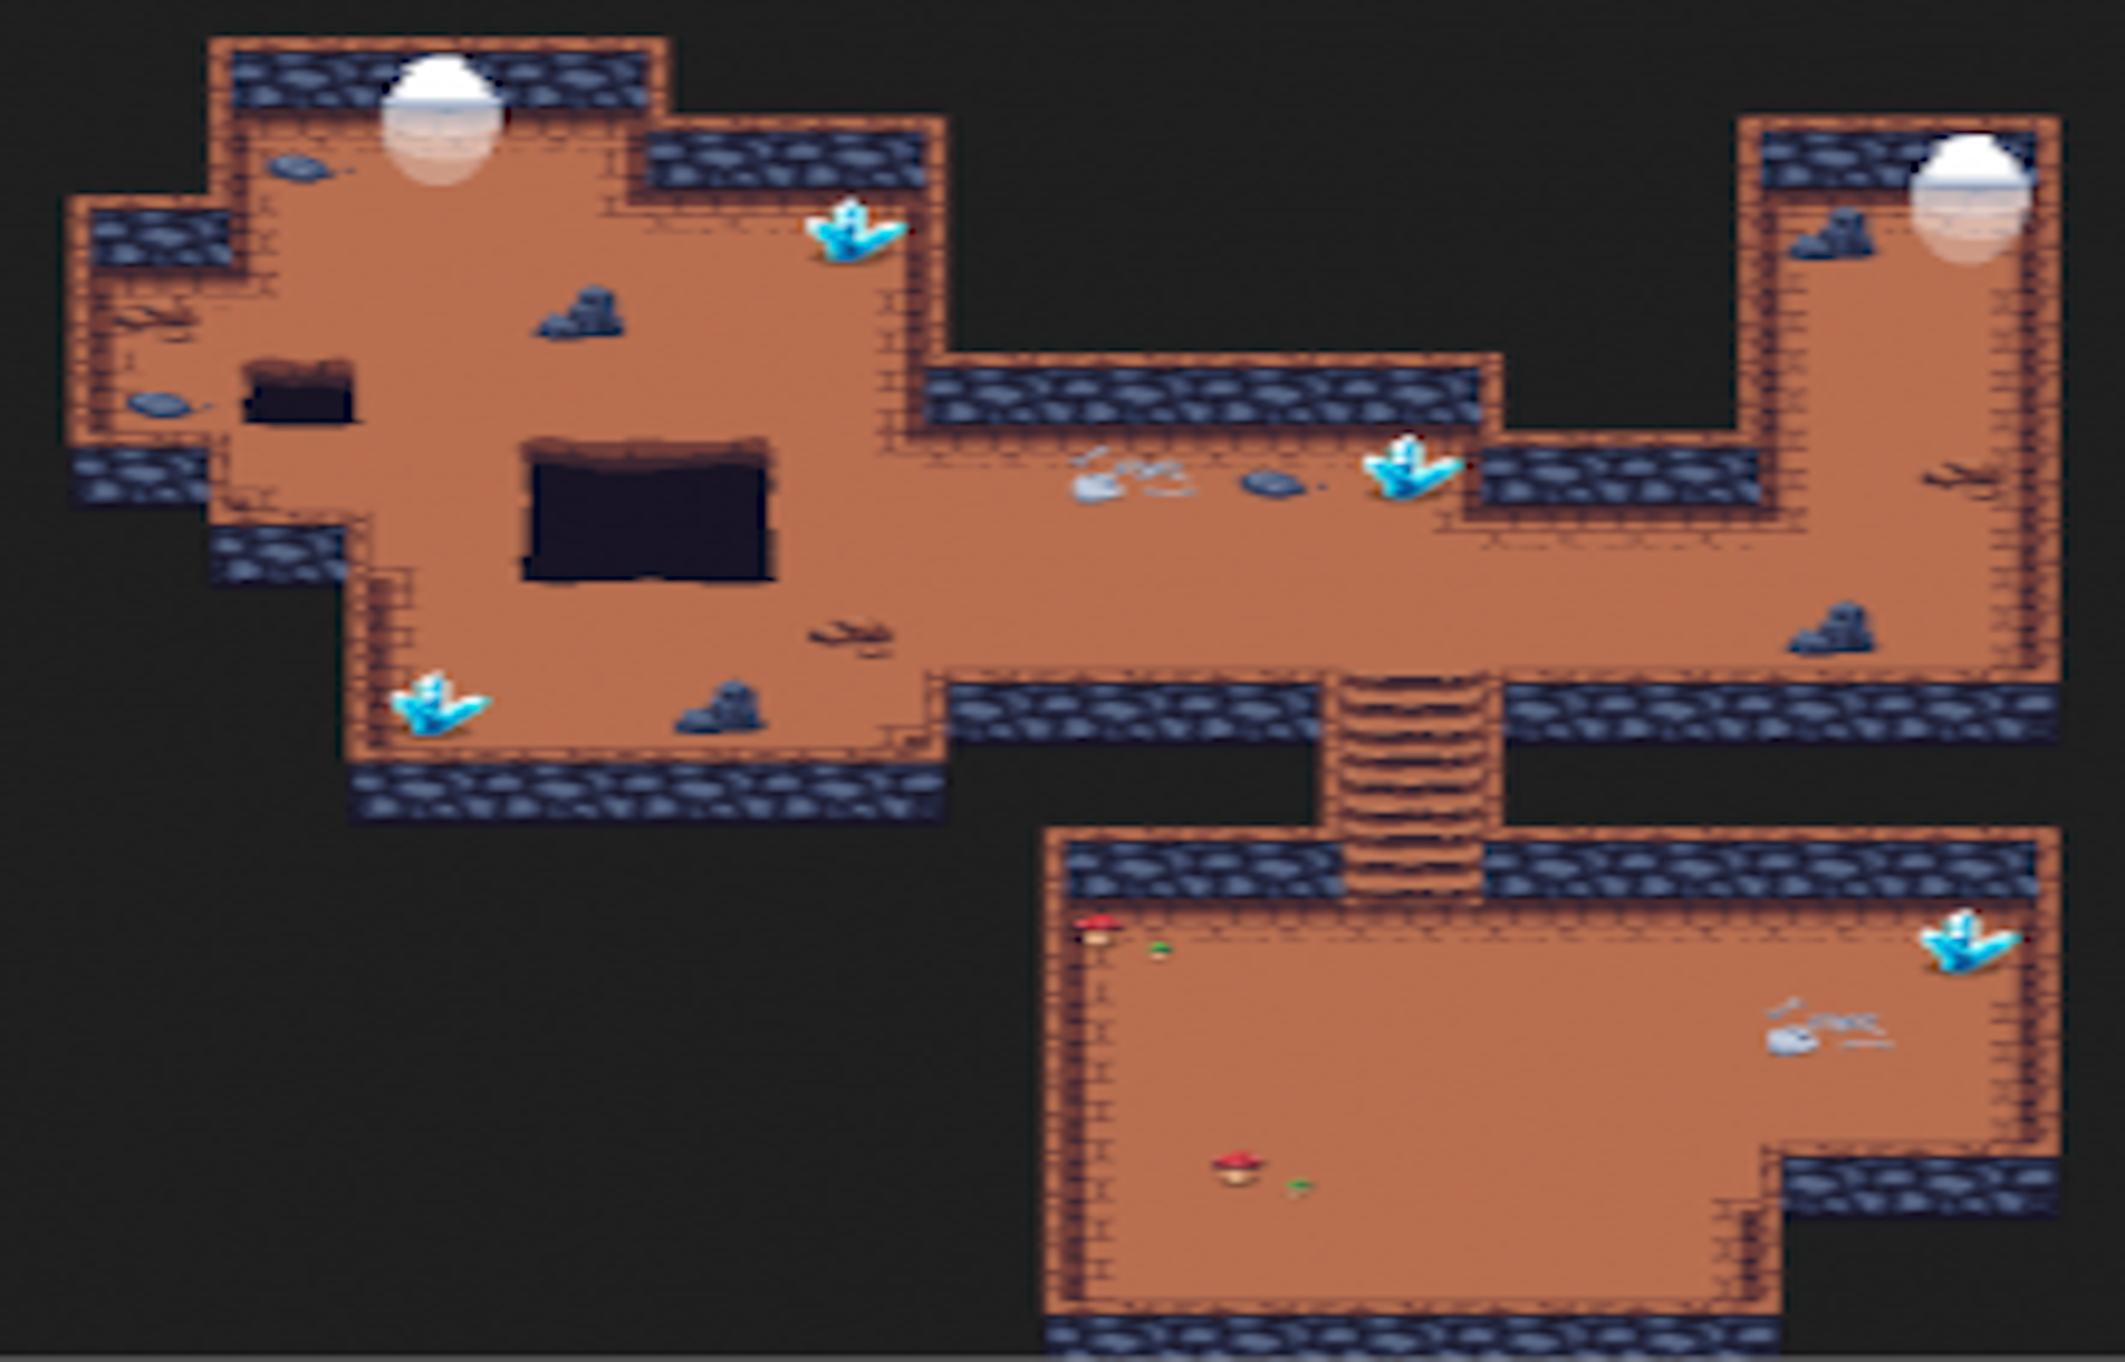
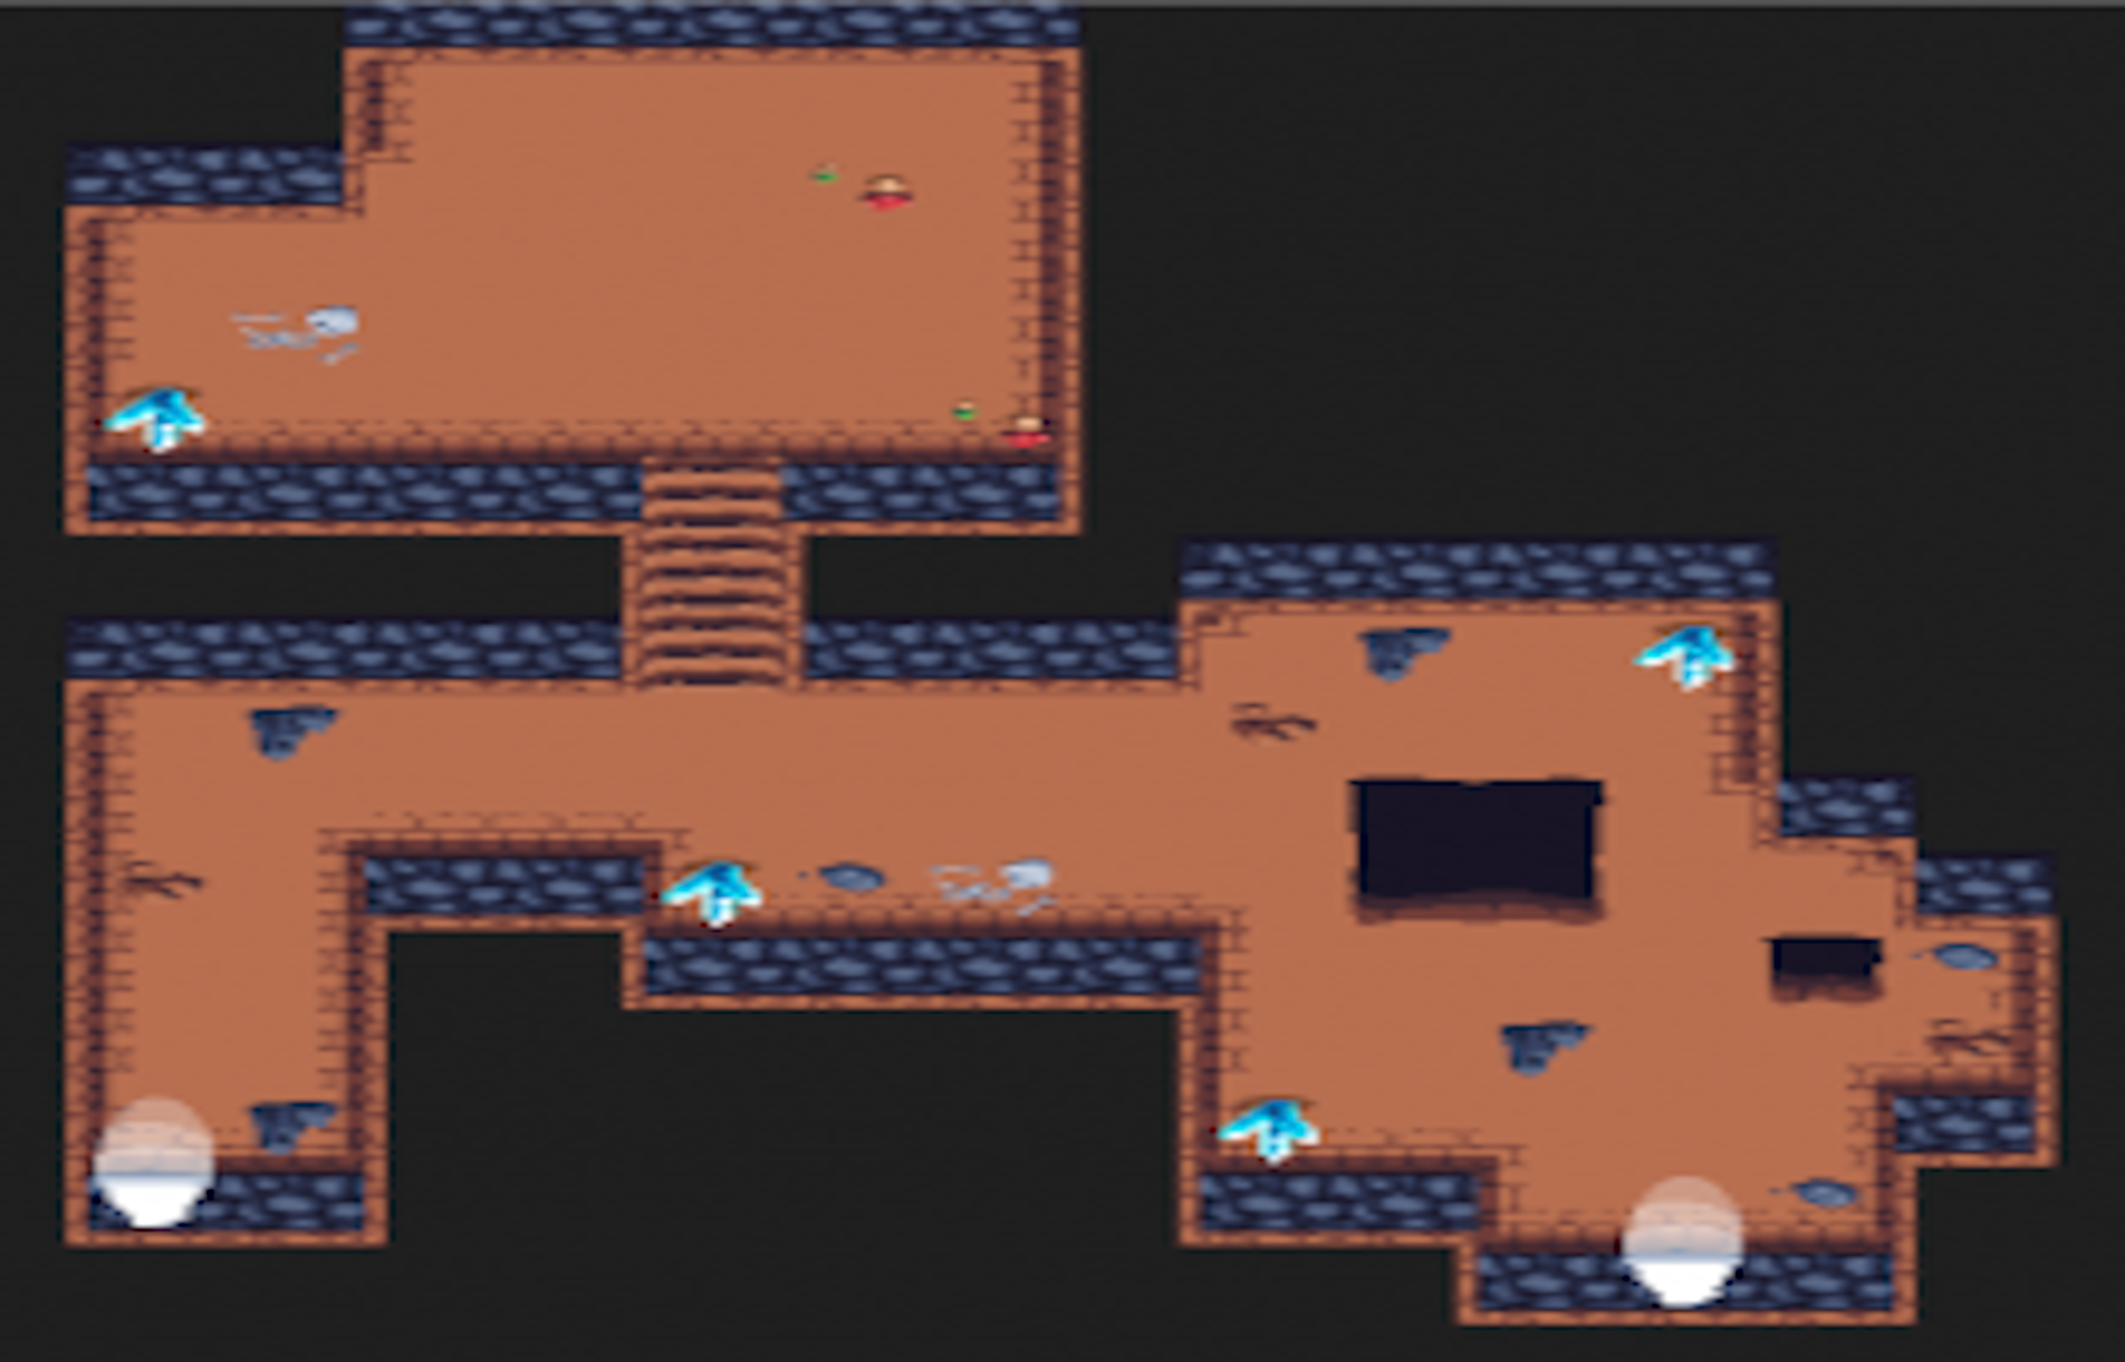
warp transi

diff --git a/mapgrid.py b/mapgrid.py
@@ -1,5 +1,5 @@
 
-T =[
+Village_grid =[
 [1, 1, 1, 1, 1, 1, 1, 1, 1, 1, 1, 1, 1, 1, 1, 1, 1, 1, 1, 1, 1, 1, 1, 1, 1, 1, 1, 1, 1, 1, 1, 1, 1, 1, 1, 1, 1, 1, 1, 1, 1, 1, 1, 1, 1, 1, 1, 1, 1, 1, 1, 1, 1, 1, 1, 1, 1, 1, 1, 1, 1, 1, 1, 1, 1, 1, 1, 1, 1, 1, 1, 1, 1, 1, 1, 1, 1, 1, 1],
 [1, 1, 1, 1, 1, 1, 1, 1, 1, 1, 0, 0, 0, 1, 1, 1, 1, 1, 1, 1, 1, 1, 1, 1, 0, 0, 0, 1, 1, 1, 1, 1, 1, 1, 1, 1, 1, 1, 1, 1, 1, 1, 1, 1, 1, 1, 1, 1, 1, 1, 1, 1, 1, 1, 1, 1, 1, 1, 0, 0, 0, 0, 0, 0, 0, 0, 1, 1, 1, 1, 1, 1, 1, 1, 1, 1, 1, 1, 1],
 [1, 1, 1, 1, 1, 1, 1, 1, 1, 0, 0, 0, 0, 0, 0, 0, 0, 0, 0, 0, 0, 0, 0, 0, 0, 0, 0, 0, 1, 1, 1, 1, 1, 1, 1, 1, 1, 1, 1, 1, 1, 1, 1, 1, 1, 1, 1, 1, 1, 1, 1, 1, 1, 1, 1, 1, 1, 1, 0, 0, 0, 0, 0, 0, 0, 0, 0, 0, 1, 1, 0, 0, 0, 0, 0, 1, 1, 1, 1],
@@ -18,7 +18,7 @@ T =[
 [1, 1, 1, 1, 1, 0, 0, 0, 0, 0, 1, 0, 1, 1, 1, 1, 1, 1, 1, 1, 0, 1, 0, 0, 0, 0, 0, 0, 0, 0, 0, 0, 0, 0, 0, 0, 0, 0, 0, 0, 0, 0, 0, 0, 0, 0, 0, 0, 0, 0, 0, 0, 0, 0, 0, 0, 0, 0, 0, 0, 0, 0, 0, 0, 0, 0, 0, 0, 0, 0, 0, 0, 0, 0, 0, 0, 0, 1, 1],
 [1, 1, 1, 1, 0, 0, 0, 0, 0, 0, 0, 0, 1, 1, 1, 1, 1, 1, 1, 1, 0, 1, 0, 0, 0, 0, 0, 0, 0, 0, 0, 0, 0, 0, 0, 0, 0, 0, 0, 0, 0, 0, 0, 0, 0, 0, 0, 0, 0, 0, 0, 0, 0, 0, 0, 0, 0, 0, 0, 1, 1, 1, 1, 1, 1, 1, 1, 1, 1, 1, 0, 0, 0, 1, 1, 1, 1, 1, 1],
 [1, 1, 1, 1, 0, 0, 0, 0, 0, 0, 0, 0, 1, 1, 1, 1, 1, 1, 1, 0, 0, 0, 0, 0, 0, 0, 0, 0, 0, 0, 0, 0, 0, 0, 0, 1, 1, 1, 1, 0, 0, 1, 1, 1, 1, 1, 0, 0, 0, 0, 0, 0, 0, 0, 0, 0, 0, 0, 0, 1, 0, 0, 0, 0, 0, 0, 0, 0, 0, 0, 0, 0, 0, 0, 0, 0, 0, 1, 1],
-[1, 1, 1, 1, 0, 0, 0, 0, 0, 0, 1, 0, 1, 1, 1, 1, 0, 0, 1, 1, 0, 0, 0, 0, 0, 0, 1, 1, 0, 0, 0, 0, 0, 0, 0, 1, 0, 0, 0, 0, 0, 0, 0, 0, 0, 1, 0, 0, 0, 0, 1, 1, 0, 0, 1, 0, 0, 0, 0, 1, 0, 0, 0, 0, 0, 0, 0, 0, 0, 0, 0, 0, 0, 1, 1, 1, 1, 1, 1],
+[1, 1, 1, 1, 0, 0, 0, 0, 0, 0, 1, 0, 1, 1, 1, 0, 2, 1, 1, 1, 0, 0, 0, 0, 0, 0, 1, 1, 0, 0, 0, 0, 0, 0, 0, 1, 0, 0, 0, 0, 0, 0, 0, 0, 0, 1, 0, 0, 0, 0, 1, 1, 0, 0, 1, 0, 0, 0, 0, 1, 0, 0, 0, 0, 0, 0, 0, 0, 0, 0, 0, 0, 0, 1, 1, 1, 1, 1, 1],
 [1, 1, 1, 1, 1, 0, 0, 0, 0, 0, 1, 0, 0, 0, 0, 0, 0, 0, 0, 0, 0, 1, 0, 0, 0, 0, 0, 0, 0, 0, 0, 0, 0, 0, 0, 1, 0, 0, 0, 0, 0, 0, 0, 0, 0, 1, 0, 0, 0, 0, 0, 0, 0, 0, 0, 0, 0, 0, 0, 1, 0, 0, 1, 1, 1, 1, 1, 1, 1, 0, 0, 0, 0, 0, 0, 0, 1, 1, 1],
 [1, 1, 1, 1, 1, 0, 0, 0, 0, 0, 1, 0, 0, 0, 0, 0, 0, 0, 0, 0, 0, 1, 0, 0, 0, 0, 0, 0, 0, 0, 0, 0, 0, 0, 0, 1, 0, 0, 0, 1, 1, 0, 0, 0, 0, 1, 0, 0, 0, 0, 0, 0, 0, 0, 0, 0, 0, 0, 0, 1, 0, 0, 1, 1, 1, 1, 1, 1, 1, 0, 0, 0, 0, 0, 1, 1, 1, 1, 1],
 [1, 1, 1, 1, 0, 0, 0, 0, 0, 0, 1, 1, 0, 0, 0, 0, 0, 0, 0, 0, 0, 1, 0, 0, 0, 0, 0, 0, 0, 0, 0, 0, 0, 0, 0, 0, 0, 0, 0, 1, 1, 0, 0, 0, 0, 0, 0, 0, 0, 0, 1, 0, 0, 0, 1, 0, 0, 0, 0, 0, 0, 0, 1, 1, 1, 1, 1, 1, 1, 0, 0, 0, 0, 0, 1, 1, 1, 1, 1],
@@ -52,30 +52,54 @@ T =[
 [1, 1, 1, 1, 1, 1, 1, 1, 1, 1, 1, 1, 1, 1, 1, 1, 1, 1, 1, 1, 1, 1, 1, 1, 1, 1, 1, 1, 1, 1, 0, 0, 0, 0, 0, 0, 0, 0, 0, 0, 0, 0, 0, 0, 0, 0, 0, 1, 1, 0, 0, 0, 0, 0, 0, 0, 0, 0, 0, 0, 0, 0, 0, 0, 0, 1, 0, 0, 0, 0, 0, 1, 1, 1, 1, 1, 1, 1, 1],
 [1, 1, 1, 1, 1, 1, 1, 1, 1, 1, 1, 1, 1, 1, 1, 1, 1, 1, 1, 1, 1, 1, 1, 1, 1, 1, 1, 1, 1, 1, 1, 1, 1, 1, 1, 1, 1, 1, 1, 1, 1, 1, 1, 1, 1, 1, 1, 1, 1, 1, 1, 1, 1, 1, 1, 1, 1, 1, 1, 1, 1, 1, 1, 1, 1, 1, 1, 1, 1, 1, 1, 1, 1, 1, 1, 1, 1, 1, 1],
 ]
-L=[
+
+
+
+Grotte_grid=[
 [1, 1, 1, 1, 1, 1, 1, 1, 1, 1, 1, 1, 1, 1, 1, 1, 1, 1, 1, 1, 1, 1, 1, 1, 1, 1, 1, 1, 1, 1, 1, 1, 1, 1, 1, 1, 1, 1, 1],
-[1, 1, 1, 1, 1, 1, 1, 2, 0, 1, 1, 1, 1, 1, 1, 1, 1, 1, 1, 1, 1, 1, 1, 1, 1, 1, 1, 1, 1, 1, 1, 1, 1, 1, 1, 1, 1, 1, 1],
-[1, 1, 1, 1, 0, 0, 0, 0, 0, 0, 0, 0, 1, 1, 1, 1, 1, 1, 1, 1, 1, 1, 1, 1, 1, 1, 1, 1, 1, 1, 1, 1, 1, 1, 1, 1, 1, 1, 1],
-[1, 1, 1, 1, 0, 0, 0, 0, 0, 0, 0, 0, 0, 0, 0, 0, 0, 1, 1, 1, 1, 1, 1, 1, 1, 1, 1, 1, 1, 1, 1, 1, 0, 0, 0, 0, 0, 1, 1],
-[1, 1, 0, 0, 0, 0, 0, 0, 0, 0, 0, 0, 0, 0, 0, 0, 0, 1, 1, 1, 1, 1, 1, 1, 1, 1, 1, 1, 1, 1, 1, 1, 0, 0, 0, 0, 0, 1, 1],
-[1, 1, 0, 0, 0, 0, 0, 0, 0, 0, 0, 0, 0, 0, 0, 0, 0, 1, 1, 1, 1, 1, 1, 1, 1, 1, 1, 1, 1, 1, 1, 1, 0, 0, 0, 0, 0, 1, 1],
-[1, 1, 0, 0, 0, 0, 0, 0, 0, 0, 0, 0, 0, 0, 0, 0, 0, 1, 1, 1, 1, 1, 1, 1, 1, 1, 1, 1, 1, 1, 1, 1, 0, 0, 0, 0, 0, 1, 1],
-[1, 1, 0, 0, 0, 0, 0, 0, 0, 0, 0, 0, 0, 0, 0, 0, 0, 0, 0, 0, 0, 0, 0, 0, 0, 0, 0, 1, 1, 1, 1, 1, 0, 0, 0, 0, 0, 1, 1],
-[1, 1, 1, 1, 0, 0, 0, 0, 0, 0, 0, 0, 0, 0, 0, 0, 0, 0, 0, 0, 0, 0, 0, 0, 0, 0, 0, 0, 0, 0, 0, 0, 0, 0, 0, 0, 0, 1, 1],
-[1, 1, 1, 1, 1, 1, 1, 0, 0, 0, 0, 0, 0, 0, 0, 0, 0, 0, 0, 0, 0, 0, 0, 0, 0, 0, 0, 0, 0, 0, 0, 0, 0, 0, 0, 0, 0, 1, 1],
-[1, 1, 1, 1, 1, 1, 1, 0, 0, 0, 0, 0, 0, 0, 0, 0, 0, 0, 0, 0, 0, 0, 0, 0, 0, 0, 0, 0, 0, 0, 0, 0, 0, 0, 0, 0, 0, 1, 1],
-[1, 1, 1, 1, 1, 1, 1, 0, 0, 0, 0, 0, 0, 0, 0, 0, 0, 0, 0, 0, 0, 0, 0, 0, 0, 0, 0, 0, 0, 0, 0, 0, 0, 0, 0, 0, 0, 1, 1],
-[1, 1, 1, 1, 1, 1, 1, 0, 0, 0, 0, 0, 0, 0, 0, 0, 0, 1, 1, 1, 1, 1, 1, 1, 0, 0, 0, 1, 1, 1, 1, 1, 1, 1, 1, 1, 1, 1, 1],
-[1, 1, 1, 1, 1, 1, 1, 0, 0, 0, 0, 0, 0, 0, 0, 0, 1, 1, 1, 1, 1, 1, 1, 1, 0, 0, 0, 1, 1, 1, 1, 1, 1, 1, 1, 1, 1, 1, 1],
-[1, 1, 1, 1, 1, 1, 1, 1, 1, 1, 1, 1, 1, 1, 1, 1, 1, 1, 1, 1, 1, 1, 1, 1, 0, 0, 0, 1, 1, 1, 1, 1, 1, 1, 1, 1, 1, 1, 1],
-[1, 1, 1, 1, 1, 1, 1, 1, 1, 1, 1, 1, 1, 1, 1, 1, 1, 1, 1, 1, 1, 1, 1, 1, 0, 0, 0, 1, 1, 1, 1, 1, 1, 1, 1, 1, 1, 1, 1],
-[1, 1, 1, 1, 1, 1, 1, 1, 1, 1, 1, 1, 1, 1, 1, 1, 1, 1, 1, 0, 0, 0, 0, 0, 0, 0, 0, 0, 0, 0, 0, 0, 0, 0, 0, 0, 0, 1, 1],
-[1, 1, 1, 1, 1, 1, 1, 1, 1, 1, 1, 1, 1, 1, 1, 1, 1, 1, 1, 0, 0, 0, 0, 0, 0, 0, 0, 0, 0, 0, 0, 0, 0, 0, 0, 0, 0, 1, 1],
-[1, 1, 1, 1, 1, 1, 1, 1, 1, 1, 1, 1, 1, 1, 1, 1, 1, 1, 1, 0, 0, 0, 0, 0, 0, 0, 0, 0, 0, 0, 0, 0, 0, 0, 0, 0, 0, 1, 1],
-[1, 1, 1, 1, 1, 1, 1, 1, 1, 1, 1, 1, 1, 1, 1, 1, 1, 1, 1, 0, 0, 0, 0, 0, 0, 0, 0, 0, 0, 0, 0, 0, 0, 0, 0, 0, 0, 1, 1],
-[1, 1, 1, 1, 1, 1, 1, 1, 1, 1, 1, 1, 1, 1, 1, 1, 1, 1, 1, 0, 0, 0, 0, 0, 0, 0, 0, 0, 0, 0, 0, 0, 0, 0, 0, 0, 0, 1, 1],
-[1, 1, 1, 1, 1, 1, 1, 1, 1, 1, 1, 1, 1, 1, 1, 1, 1, 1, 1, 0, 0, 0, 0, 0, 0, 0, 0, 0, 0, 0, 0, 0, 0, 1, 1, 1, 1, 1, 1],
-[1, 1, 1, 1, 1, 1, 1, 1, 1, 1, 1, 1, 1, 1, 1, 1, 1, 1, 1, 0, 0, 0, 0, 0, 0, 0, 0, 0, 0, 0, 0, 0, 1, 1, 1, 1, 1, 1, 1],
-[1, 1, 1, 1, 1, 1, 1, 1, 1, 1, 1, 1, 1, 1, 1, 1, 1, 1, 1, 0, 0, 0, 0, 0, 0, 0, 0, 0, 0, 0, 0, 0, 1, 1, 1, 1, 1, 1, 1],
-[1, 1, 1, 1, 1, 1, 1, 1, 1, 1, 1, 1, 1, 1, 1, 1, 1, 1, 1, 1, 1, 1, 1, 1, 1, 1, 1, 1, 1, 1, 1, 1, 1, 1, 1, 1, 1, 1, 1]
+[1, 1, 1, 1, 1, 1, 1, 0, 0, 0, 0, 0, 0, 0, 0, 0, 0, 0, 0, 0, 1, 1, 1, 1, 1, 1, 1, 1, 1, 1, 1, 1, 1, 1, 1, 1, 1, 1, 1],
+[1, 1, 1, 1, 1, 1, 1, 0, 0, 0, 0, 0, 0, 0, 0, 0, 0, 0, 0, 0, 1, 1, 1, 1, 1, 1, 1, 1, 1, 1, 1, 1, 1, 1, 1, 1, 1, 1, 1],
+[1, 1, 1, 1, 1, 1, 0, 0, 0, 0, 0, 0, 0, 0, 0, 0, 0, 0, 0, 0, 1, 1, 1, 1, 1, 1, 1, 1, 1, 1, 1, 1, 1, 1, 1, 1, 1, 1, 1],
+[1, 1, 0, 0, 0, 0, 0, 0, 0, 0, 0, 0, 0, 0, 0, 0, 0, 0, 0, 0, 1, 1, 1, 1, 1, 1, 1, 1, 1, 1, 1, 1, 1, 1, 1, 1, 1, 1, 1],
+[1, 1, 0, 0, 0, 0, 0, 0, 0, 0, 0, 0, 0, 0, 0, 0, 0, 0, 0, 0, 1, 1, 1, 1, 1, 1, 1, 1, 1, 1, 1, 1, 1, 1, 1, 1, 1, 1, 1],
+[1, 1, 0, 0, 0, 0, 0, 0, 0, 0, 0, 0, 0, 0, 0, 0, 0, 0, 0, 0, 1, 1, 1, 1, 1, 1, 1, 1, 1, 1, 1, 1, 1, 1, 1, 1, 1, 1, 1],
+[1, 1, 0, 0, 0, 0, 0, 0, 0, 0, 0, 0, 0, 0, 0, 0, 0, 0, 0, 0, 1, 1, 1, 1, 1, 1, 1, 1, 1, 1, 1, 1, 1, 1, 1, 1, 1, 1, 1],
+[1, 1, 0, 0, 0, 0, 0, 0, 0, 0, 0, 0, 0, 0, 0, 0, 0, 0, 0, 0, 1, 1, 1, 1, 1, 1, 1, 1, 1, 1, 1, 1, 1, 1, 1, 1, 1, 1, 1],
+[1, 1, 1, 1, 1, 1, 1, 1, 1, 1, 1, 1, 0, 0, 0, 1, 1, 1, 1, 1, 1, 1, 1, 1, 1, 1, 1, 1, 1, 1, 1, 1, 1, 1, 1, 1, 1, 1, 1],
+[1, 1, 1, 1, 1, 1, 1, 1, 1, 1, 1, 1, 0, 0, 0, 1, 1, 1, 1, 1, 1, 1, 1, 1, 1, 1, 1, 1, 1, 1, 1, 1, 1, 1, 1, 1, 1, 1, 1],
+[1, 1, 1, 1, 1, 1, 1, 1, 1, 1, 1, 1, 0, 0, 0, 1, 1, 1, 1, 1, 1, 1, 1, 0, 0, 0, 0, 0, 0, 0, 0, 0, 1, 1, 1, 1, 1, 1, 1],
+[1, 1, 1, 1, 1, 1, 1, 1, 1, 1, 1, 1, 0, 0, 0, 1, 1, 1, 1, 1, 1, 1, 0, 0, 0, 0, 0, 0, 0, 0, 0, 0, 1, 1, 1, 1, 1, 1, 1],
+[1, 1, 0, 0, 0, 0, 0, 0, 0, 0, 0, 0, 0, 0, 0, 0, 0, 0, 0, 0, 0, 0, 0, 0, 0, 0, 0, 0, 0, 0, 0, 0, 1, 1, 1, 1, 1, 1, 1],
+[1, 1, 0, 0, 0, 0, 0, 0, 0, 0, 0, 0, 0, 0, 0, 0, 0, 0, 0, 0, 0, 0, 0, 0, 0, 0, 0, 0, 0, 0, 0, 0, 1, 1, 1, 1, 1, 1, 1],
+[1, 1, 0, 0, 0, 0, 0, 0, 0, 0, 0, 0, 0, 0, 0, 0, 0, 0, 0, 0, 0, 0, 0, 0, 0, 0, 0, 0, 0, 0, 0, 0, 1, 1, 1, 1, 1, 1, 1],
+[1, 1, 0, 0, 0, 0, 0, 0, 0, 0, 0, 0, 0, 0, 0, 0, 0, 0, 0, 0, 0, 0, 0, 0, 0, 0, 0, 0, 0, 0, 0, 0, 0, 0, 0, 1, 1, 1, 1],
+[1, 1, 0, 0, 0, 0, 0, 1, 1, 1, 1, 1, 0, 0, 0, 0, 0, 0, 0, 0, 0, 0, 0, 0, 0, 0, 0, 0, 0, 0, 0, 0, 0, 0, 0, 0, 0, 1, 1],
+[1, 1, 0, 0, 0, 0, 0, 1, 1, 1, 1, 1, 1, 1, 1, 1, 1, 1, 1, 1, 1, 1, 0, 0, 0, 0, 0, 0, 0, 0, 0, 0, 0, 0, 0, 0, 0, 1, 1],
+[1, 1, 0, 0, 0, 0, 0, 1, 1, 1, 1, 1, 1, 1, 1, 1, 1, 1, 1, 1, 1, 1, 0, 0, 0, 0, 0, 0, 0, 0, 0, 0, 0, 0, 0, 0, 0, 1, 1],
+[1, 1, 0, 0, 0, 0, 0, 1, 1, 1, 1, 1, 1, 1, 1, 1, 1, 1, 1, 1, 1, 1, 0, 0, 0, 0, 0, 0, 0, 0, 0, 0, 0, 0, 0, 0, 0, 1, 1],
+[1, 1, 0, 0, 0, 0, 0, 1, 1, 1, 1, 1, 1, 1, 1, 1, 1, 1, 1, 1, 1, 1, 0, 0, 0, 0, 0, 0, 0, 0, 0, 0, 0, 0, 0, 1, 1, 1, 1],
+[1, 1, 1, 1, 1, 1, 1, 1, 1, 1, 1, 1, 1, 1, 1, 1, 1, 1, 1, 1, 1, 1, 1, 1, 1, 1, 1, 0, 0, 0, 0, 0, 0, 0, 0, 1, 1, 1, 1],
+[1, 1, 1, 1, 1, 1, 1, 1, 1, 1, 1, 1, 1, 1, 1, 1, 1, 1, 1, 1, 1, 1, 1, 1, 1, 1, 1, 1, 1, 1, 0, 2, 1, 1, 1, 1, 1, 1, 1],
+[1, 1, 1, 1, 1, 1, 1, 1, 1, 1, 1, 1, 1, 1, 1, 1, 1, 1, 1, 1, 1, 1, 1, 1, 1, 1, 1, 1, 1, 1, 1, 1, 1, 1, 1, 1, 1, 1, 1]]
+
+
+
+Home_grid= [
+[1, 1, 1, 1, 1, 1, 1, 1, 1, 1, 1, 1, 1, 1, 1, 1, 1, 1, 1, 1],
+[1, 1, 1, 1, 1, 1, 1, 1, 1, 1, 1, 1, 1, 1, 1, 1, 1, 1, 1, 1],
+[1, 1, 1, 1, 1, 1, 1, 1, 1, 1, 1, 1, 1, 1, 1, 1, 1, 1, 1, 1],
+[1, 1, 0, 0, 1, 1, 1, 1, 1, 1, 1, 1, 1, 1, 1, 1, 1, 1, 1, 1],
+[1, 1, 0, 0, 0, 0, 1, 1, 1, 1, 1, 1, 1, 1, 1, 1, 1, 1, 1, 1],
+[1, 1, 0, 0, 0, 0, 0, 0, 0, 1, 0, 0, 0, 0, 0, 0, 0, 0, 1, 1],
+[1, 1, 0, 0, 0, 0, 0, 0, 0, 1, 0, 0, 0, 0, 0, 0, 0, 0, 1, 1],
+[1, 1, 0, 0, 0, 0, 0, 0, 0, 1, 1, 0, 0, 0, 0, 0, 0, 0, 1, 1],
+[1, 1, 1, 0, 0, 0, 1, 1, 1, 1, 1, 0, 0, 0, 0, 0, 0, 0, 1, 1],
+[1, 1, 1, 0, 0, 0, 1, 1, 1, 1, 1, 0, 0, 0, 0, 0, 0, 0, 1, 1],
+[1, 1, 1, 0, 0, 0, 1, 1, 1, 1, 1, 0, 0, 0, 0, 0, 0, 0, 1, 1],
+[1, 1, 0, 0, 0, 0, 1, 1, 1, 1, 0, 0, 0, 0, 0, 0, 0, 0, 1, 1],
+[1, 1, 0, 0, 0, 0, 0, 0, 0, 0, 0, 0, 0, 0, 0, 0, 0, 0, 1, 1],
+[1, 1, 0, 0, 0, 0, 0, 0, 0, 0, 0, 0, 0, 0, 0, 0, 0, 0, 1, 1],
+[1, 1, 0, 0, 0, 0, 0, 0, 0, 0, 0, 1, 1, 1, 1, 0, 0, 0, 1, 1],
+[1, 1, 0, 0, 0, 0, 0, 0, 1, 1, 1, 1, 1, 1, 1, 0, 0, 1, 1, 1],
+[1, 1, 1, 1, 1, 1, 1, 1, 1, 1, 1, 1, 1, 1, 1, 2, 0, 1, 1, 1]
 ]

diff --git a/Fonction.py b/Fonction.py
@@ -2,7 +2,8 @@
 import pygame
 #import random
 import copy
-
+import time
+from constantes import *
 #créeation d'une image
 class elementgraphique:
     def __init__(self,image,fenetre,x=0,y=0):
@@ -95,6 +96,7 @@ class perso(element_anime_dir):
         self.cameray = cameray
         self.map = map
         self.map_id = map_id
+        self.fenetre = fenetre
 
 
 
@@ -153,7 +155,7 @@ class perso(element_anime_dir):
         if touches[pygame.K_RIGHT]:
             self.delai = 1
 
-            rect_provisoire.x+=5.5
+            rect_provisoire.x+=self.vitesse
             cameraxprovisoire+=self.vitesse
 
             self.direction = "droite"
@@ -194,13 +196,24 @@ class perso(element_anime_dir):
                 for warp in warps:
                     for w in warp:
                         if(rect_provisoire.colliderect(w.rect)):
+                            for fondu in Transi:
+                                self.fenetre.blit(fondu, (0,0))
+                                pygame.display.flip()
+                                time.sleep(0.05)
+
                             self.map_id = w.destination[0]
                             ToWarp = warps[w.destination[0]][w.destination[1]]
                             self.rect.x = ToWarp.rect.x
                             self.rect.y = ToWarp.rect.y
 
+                            if(ToWarp.inclinaison==1):
+                                self.rect.y -= 64
+                            if(ToWarp.inclinaison==2):
+                                self.rect.x += 64
                             if(ToWarp.inclinaison==3):
                                 self.rect.y += 64
+                            if(ToWarp.inclinaison==4):
+                                self.rect.x -= 64
 
                             self.camerax = self.rect.x-(largeur//2)
                             self.cameray = self.rect.y-(hauteur//2)
@@ -242,6 +255,10 @@ class perso(element_anime_dir):
             self.cameray =0
         if self.camerax < 0:
             self.camerax =0
+        if self.camerax > 5056-largeur:
+            self.camerax = 5056 - largeur
+        if self.cameray > 3264-hauteur:
+            self.cameray = 3264 - hauteur
 
 
 

diff --git a/Warp.py b/Warp.py
@@ -16,22 +16,12 @@ def wWarp(num, T):
                     return coord
 
 
+home_sortie = Warp(fenetre, x=wWarp(1,Home_grid)[0]*64, y = wWarp(1, Home_grid)[1]*64, inclinaison=1, destination = [1,1], lock = False)
+home_entree = Warp(fenetre, x=wWarp(2,Village_grid)[0]*64, y = wWarp(2, Village_grid)[1]*64, inclinaison=3, destination = [0,0], lock = False)
+grotte_entree = Warp(fenetre,x=wWarp(1,Village_grid)[0]*64,y=wWarp(1,Village_grid)[1]*64,inclinaison=3,destination = [2,0],lock=False)
+grotte_sortie = Warp(fenetre,x=wWarp(1,Grotte_grid)[0]*64,y=wWarp(1,Grotte_grid)[1]*64,inclinaison=1,destination = [1,0] , lock=False)
 
-grotte_entree = Warp(fenetre,x=wWarp(1,T)[0]*64,y=wWarp(1,T)[1]*64,inclinaison=3,destination = [1,0],lock=False)
-grotte_sortie = Warp(fenetre,x=wWarp(1,L)[0]*64,y=wWarp(1,L)[1]*64,inclinaison=3,destination = [0,0] , lock=False)
-
-Warps[0][0] = grotte_entree
-Warps[1][0] = grotte_sortie
-
-
-def wWarp(num, T):
-    coord = []
-    i=0
-    for i in T:
-        for j in T[i]:
-            if j == 2:
-                i+=1
-                if i == num:
-                    coord[0] = j
-                    coord[1] = i
-                    return coord
+Warps[0][0] = home_sortie
+Warps[1][0] = grotte_entree
+Warps[1][1] =  home_entree
+Warps[2][0] = grotte_sortie

diff --git a/MAIN.py b/MAIN.py
@@ -21,7 +21,7 @@ pygame.display.set_caption("L'épopée_de_Lynk.exe")
 objet = lecture_objet()
 
 # Image Lynk
-perso = perso(objet["Lynk"],fenetre,x=largeur//2+120,y=hauteur//2,camerax=CameraX,cameray=CameraY,map = actual_map, map_id = 0 )
+perso = perso(objet["Lynk"],fenetre,x=152,y=203,camerax=CameraX,cameray=CameraY,map = actual_map, map_id = 0 )
 
 #Image coeurs
 v=0
@@ -74,6 +74,7 @@ while Play:
 			pygame.display.flip()
 		pygame.display.flip()
 
+
 	#Intro vidéo
 	#if not visionneuse:
 		#Intro=1
@@ -112,6 +113,11 @@ while Play:
 
 	if enJeu:
 
+		if(touches[pygame.K_SPACE]):
+			perso.vitesse = 16
+		else:
+			perso.vitesse = 5.5
+
 		print("POS : ", perso.rect.x, perso.rect.y, ", CAM : ", perso.camerax, perso.cameray)
 		#print("POS : ", mapgrid.X[perso.rect.y//64][perso.rect.x//64])
 		#x+=1 #Game over programmer
@@ -125,8 +131,9 @@ while Play:
 
 		perso.map[0].afficher(perso.camerax,perso.cameray)
 		perso.afficher()
-		if perso.deplacement(warps= Warps)==1:
-			print(perso.deplacement())
+
+		perso.deplacement(warps = Warps)
+
 
 
 

diff --git a/constantes.py b/constantes.py
@@ -6,4 +6,21 @@ fenetre=pygame.display.set_mode((largeur,hauteur))
 
 CameraX=0
 CameraY=0
-Warps = [[0],[0]]
+Warps = [[0],[0,0],[0]]
+
+
+Transi = [pygame.image.load("Source/Transi/1.jpg").convert_alpha(),
+          pygame.image.load("Source/Transi/2.jpg").convert_alpha(),
+          pygame.image.load("Source/Transi/3.jpg").convert_alpha(),
+          pygame.image.load("Source/Transi/4.jpg").convert_alpha(),
+          pygame.image.load("Source/Transi/5.jpg").convert_alpha(),
+          ]
+
+imgHomeBg = pygame.image.load("Source/Map/home.png").convert_alpha()
+imgHomeFront = pygame.image.load("Source/Map/home.png").convert_alpha()
+
+imgVillageBg = pygame.image.load("Source/Map/Village/bg.png").convert_alpha()
+imgVillageFront = pygame.image.load("Source/Map/Village/front.png").convert_alpha()
+
+imgVGrotteBg = pygame.image.load("Source/Map/labyrinthe.png").convert_alpha()
+imgGrotteFront = pygame.image.load("Source/Map/Village/bg.png").convert_alpha()

diff --git a/Map.py b/Map.py
@@ -4,12 +4,14 @@ from Fonction import *
 from mapgrid import *
 #Image village
 
+Home_bg = Map(imgHomeBg, fenetre)
+Home_front = Map(imgHomeFront, fenetre)
 
-Village_bg = Map(pygame.image.load("Source/Map/Village/bg.png").convert_alpha(), fenetre)
-Village_front = Map(pygame.image.load("Source/Map/Village/front.png").convert_alpha(), fenetre)
+Village_bg = Map(imgVillageBg, fenetre)
+Village_front = Map(imgVillageFront, fenetre)
 
-Labyrinthe_bg = Map(pygame.image.load("Source/Map/labyrinthe.png").convert_alpha(), fenetre)
-Labyrinthe_front = Map(pygame.image.load("Source/Map/Village/front.png").convert_alpha(), fenetre)
+Labyrinthe_bg = Map(imgVGrotteBg, fenetre)
+Labyrinthe_front = Map(imgGrotteFront, fenetre)
 
-Maps = [[Village_bg,Village_front,T], [Labyrinthe_bg,Labyrinthe_front,L]]
+Maps = [[Home_bg,Home_front,Home_grid],[Village_bg,Village_front,Village_grid], [Labyrinthe_bg,Labyrinthe_front,Grotte_grid]]
 actual_map = Maps[0]

diff --git a/grid.py b/grid.py
@@ -1,6 +1,6 @@
 from PIL import Image
 def collision_grid():
-    path = "grid/labyrinthegrid.png"
+    path = "grid/home_grid.png"
 
     im = Image.open(path)
     pix = im.load()
